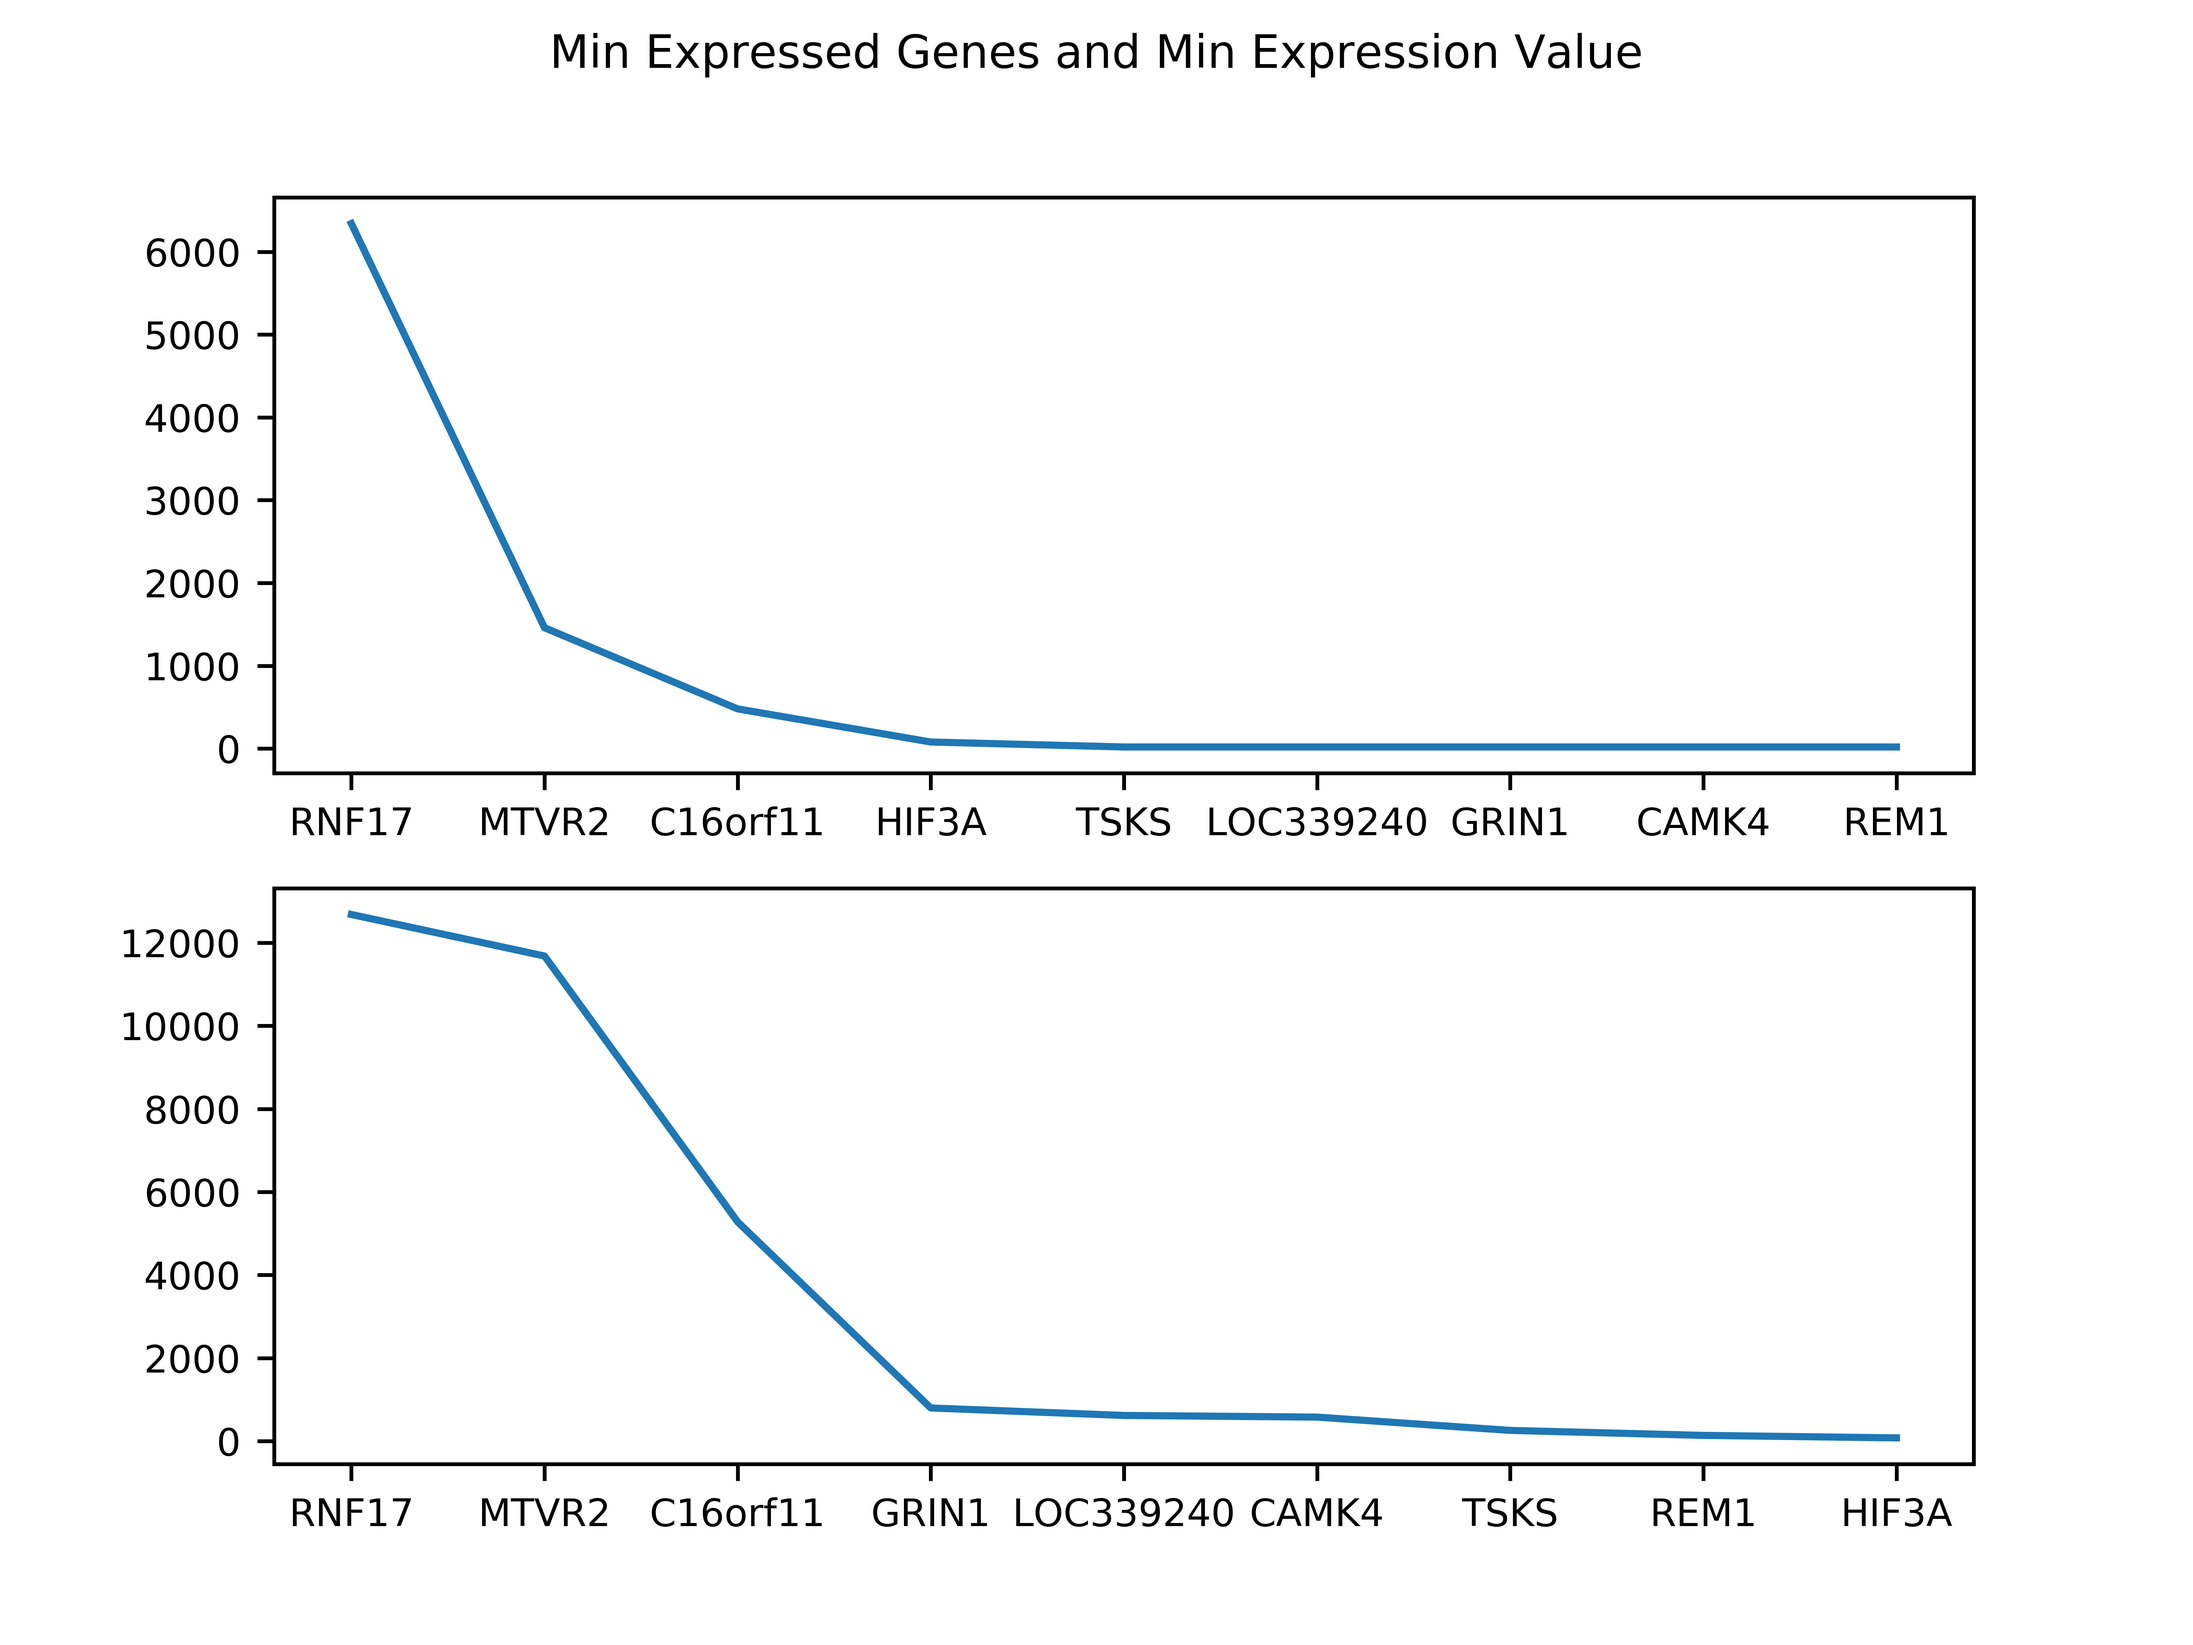
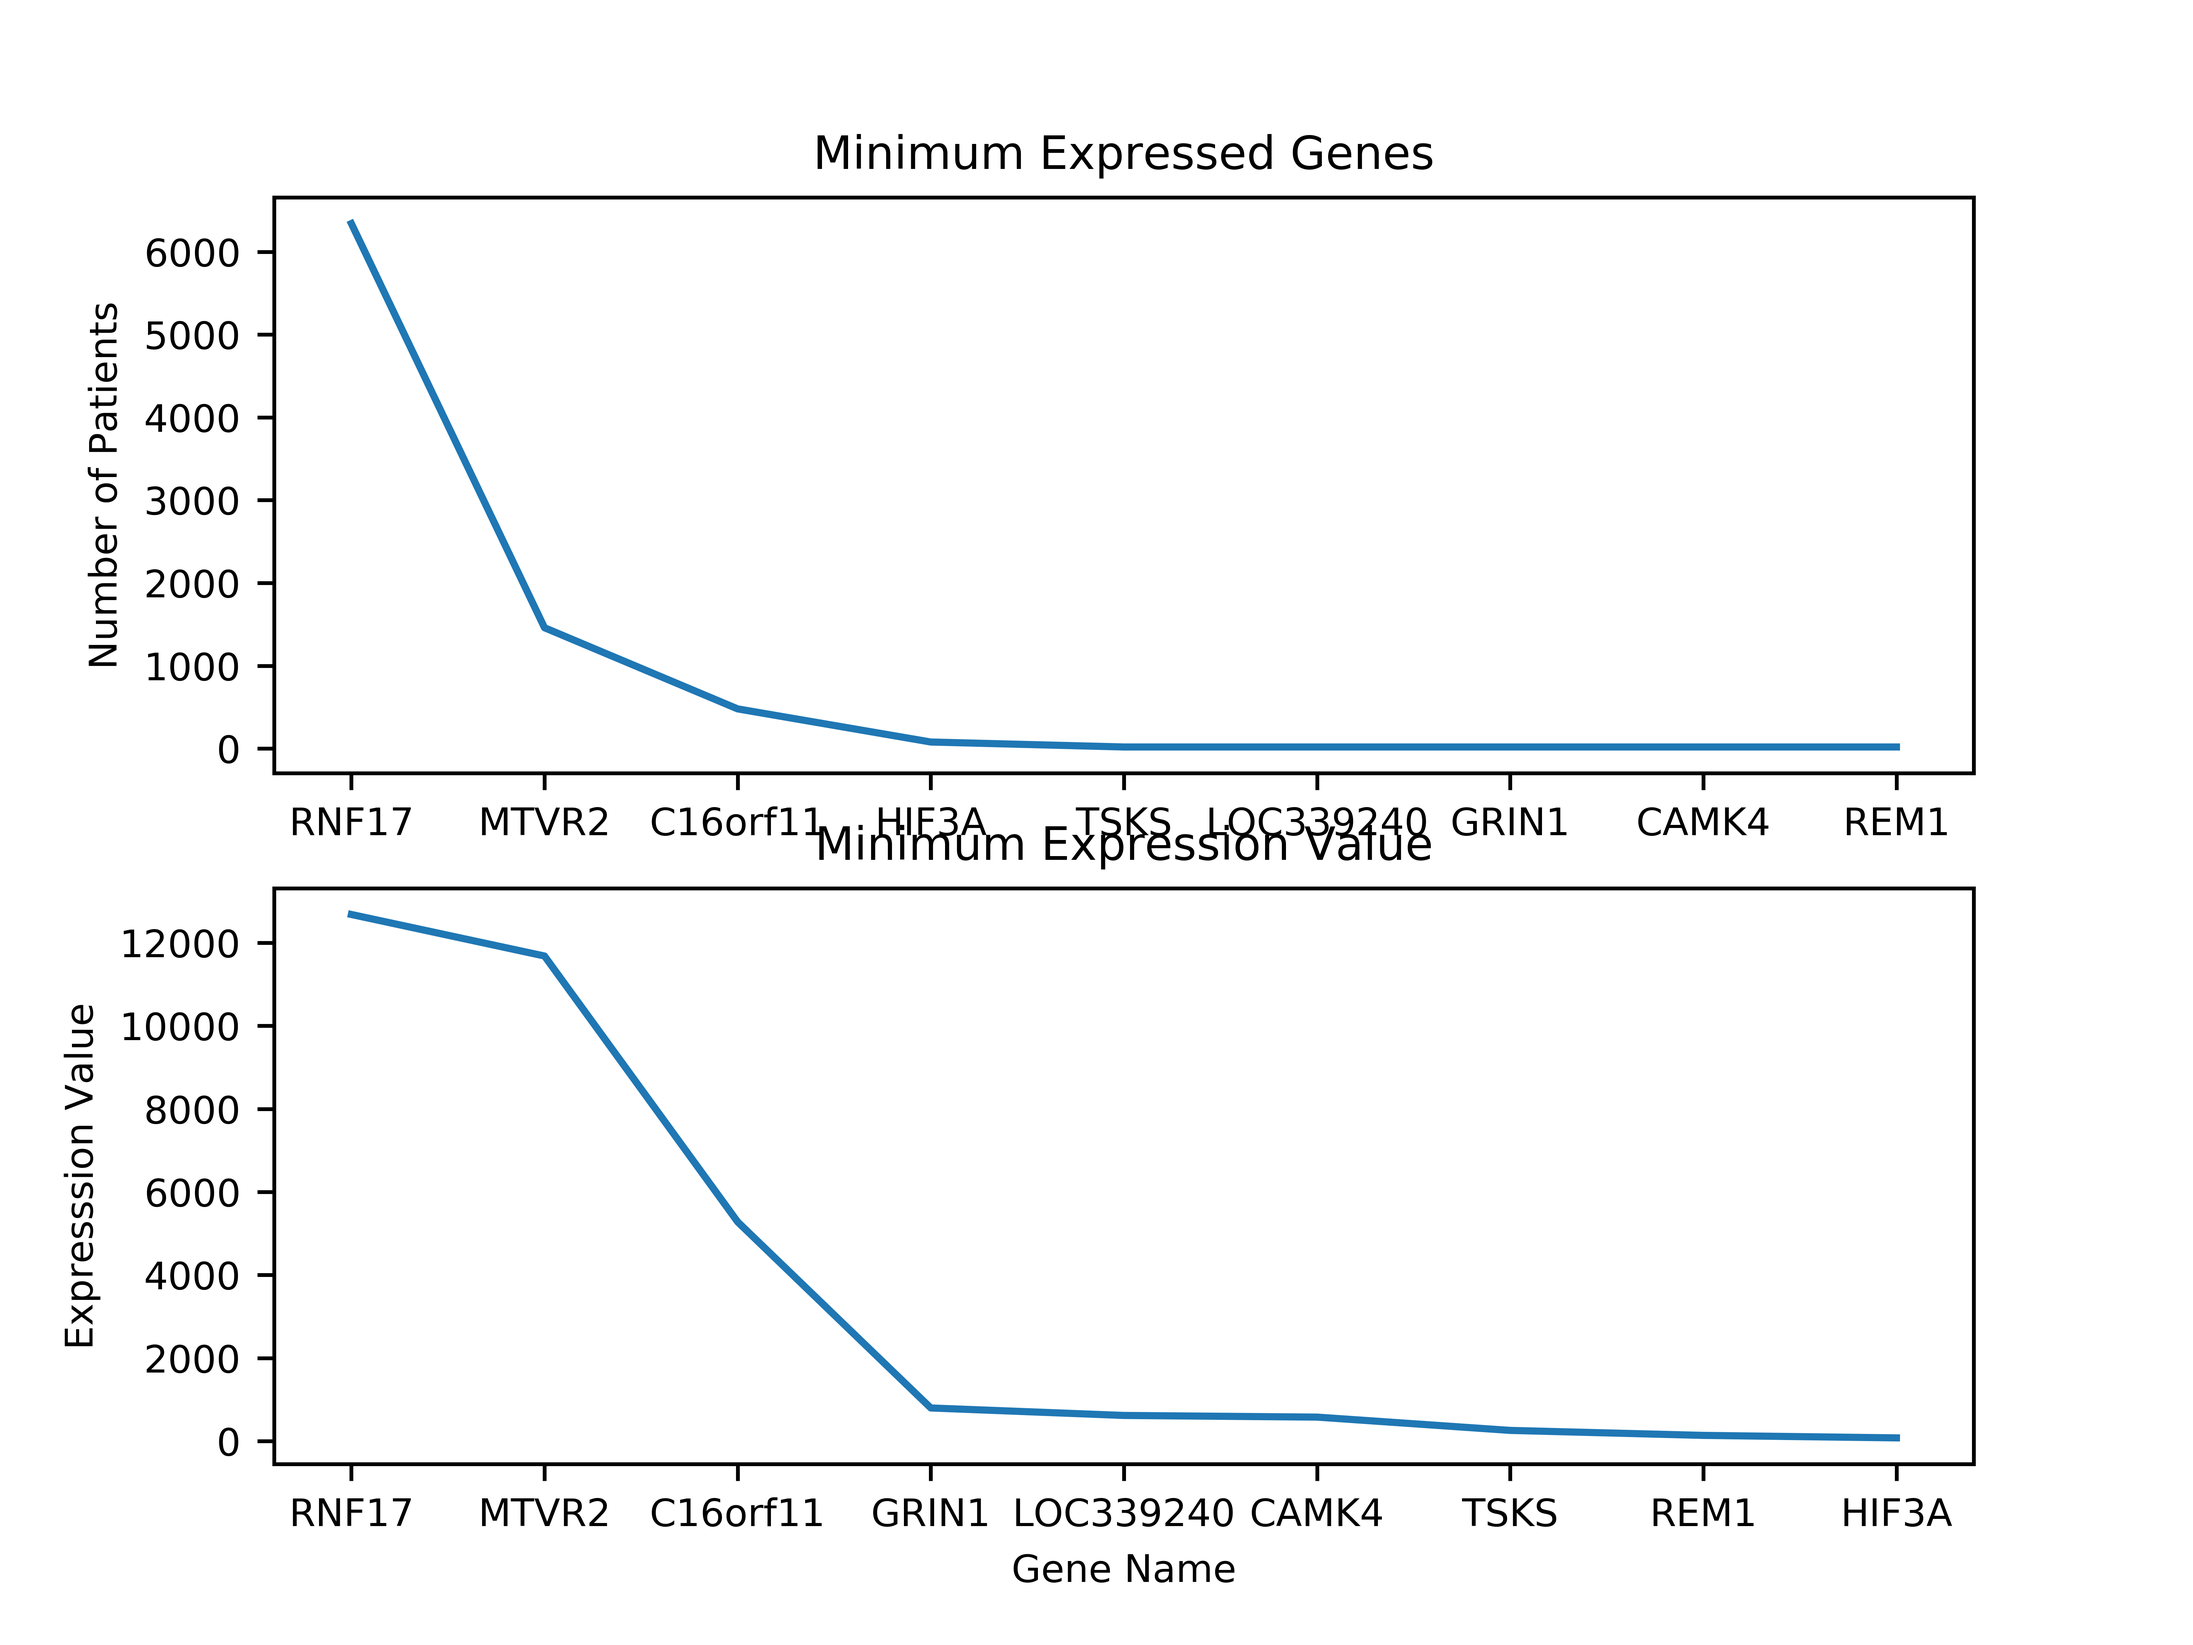
updated Graph

diff --git a/analis.py b/analis.py
@@ -2,7 +2,7 @@ import heapq
 import json
 import operator
 import matplotlib.pyplot as plt
-plt.rcParams.update({'font.size': 9}) 
+plt.rcParams.update({'font.size': 8}) 
 with open("gene_max_list.json", 'r') as file:
 	data = json.load(file)
 	max_genes=dict(sorted(data.items(), key=operator.itemgetter(1), reverse=True)[:10])
@@ -10,11 +10,15 @@ with open("gene_max_list.json", 'r') as file:
 	gene_name=[]
 	gene_number=[]
 	fig, (ax1, ax2) = plt.subplots(2)
-	fig.suptitle('Max Expressed Genes and Max Expression Value')
+	ax1.set_title('Maximum Expressed Genes')
+	ax2.set_title('Maximum Expression Value')
 	for i in max_genes:
 		gene_name.append(i)
 		gene_number.append(max_genes[i])
 	ax1.plot(gene_name,gene_number)
+	plt.xlabel('Gene Name')
+	ax1.set_ylabel('Number of Patients')
+	ax2.set_ylabel('Expresssion Value')
 	with open("gene_max_expression.json", 'r') as file1:
 		data1 = json.load(file1)
 		max_genes=dict(sorted(data1.items(), key=operator.itemgetter(1), reverse=True)[:10])
@@ -26,7 +30,9 @@ with open("gene_max_list.json", 'r') as file:
 			gene_number.append(max_genes[i])
 		ax2.plot(gene_name,gene_number)
 		plt.savefig('most_expressed_genes.png', dpi=1000, label="Expression")
+		plt.subplots_adjust(left=None, bottom=None, right=None, top=None, wspace=None, hspace=0.5)
 		plt.show()
+
 
 with open("gene_min_list.json", 'r') as file:
 	data = json.load(file)
@@ -36,11 +42,15 @@ with open("gene_min_list.json", 'r') as file:
 	gene_number=[]
 	plt.rcParams.update({'font.size': 8}) 
 	fig, (ax1, ax2) = plt.subplots(2)
-	fig.suptitle('Min Expressed Genes and Min Expression Value')
+	ax1.set_title('Minimum Expressed Genes')
+	ax2.set_title('Minimum Expression Value')
 	for i in max_genes:
 		gene_name.append(i)
 		gene_number.append(max_genes[i])
 	ax1.plot(gene_name,gene_number)
+	plt.xlabel('Gene Name')
+	ax1.set_ylabel('Number of Patients')
+	ax2.set_ylabel('Expresssion Value')
 	with open("gene_min_expression.json", 'r') as file:
 		data = json.load(file)
 		max_genes=dict(sorted(data.items(), key=operator.itemgetter(1), reverse=True)[:10])
@@ -52,4 +62,5 @@ with open("gene_min_list.json", 'r') as file:
 			gene_number.append(max_genes[i])
 		ax2.plot(gene_name,gene_number)
 		plt.savefig('least_expressed_genes.png', dpi=1000, label="Expression")
+		plt.subplots_adjust(left=None, bottom=None, right=None, top=None, wspace=None, hspace=0.5)
 		plt.show()	

diff --git a/setting_up.py b/setting_up.py
@@ -9,7 +9,6 @@ book = xlrd.open_workbook('HiSeqV2.xlsx')
 sheet=[]
 max_list=[]
 min_list=[]
-common=[]
 genes_max_dict={}
 genes_min_dict={}
 gene_max_expression={}
